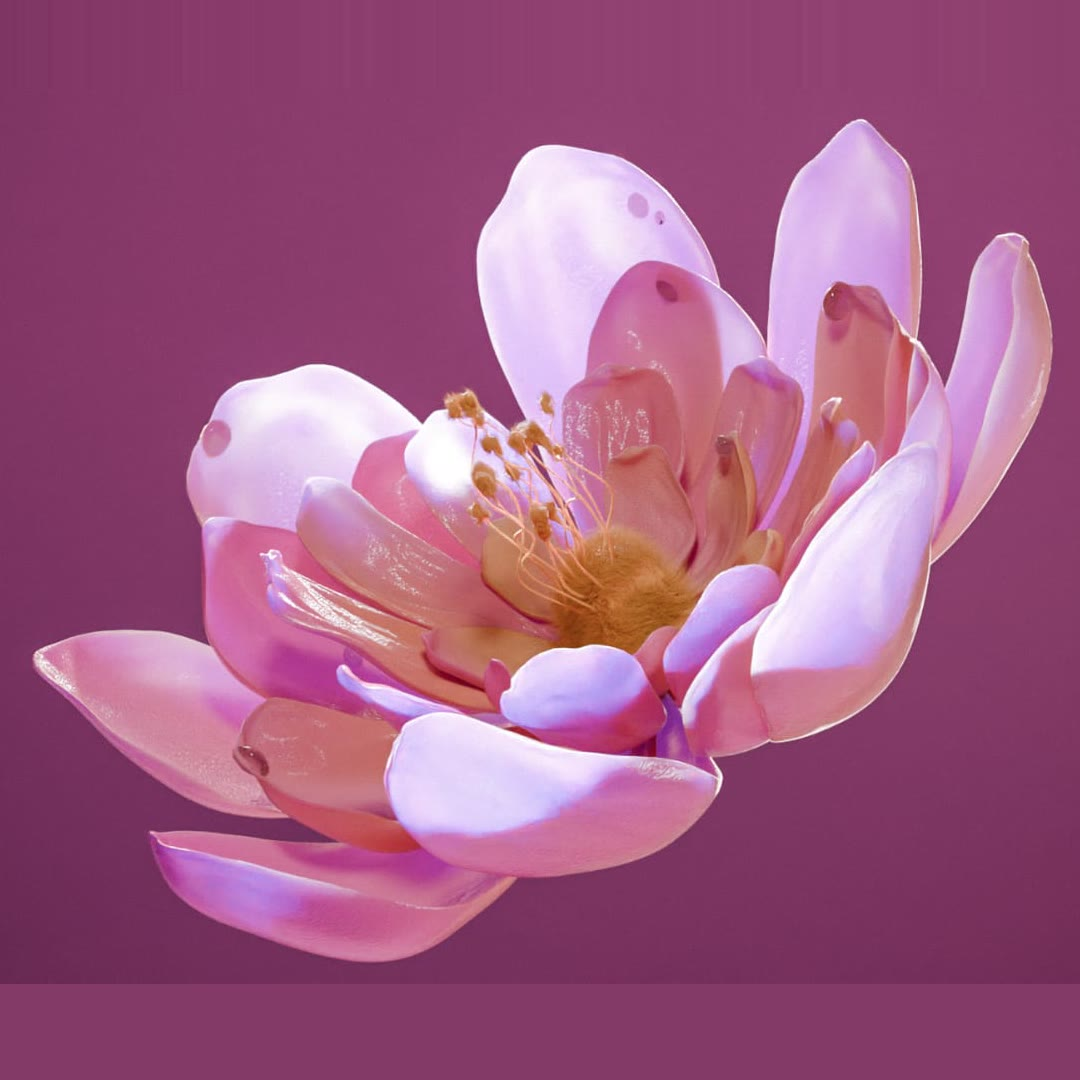
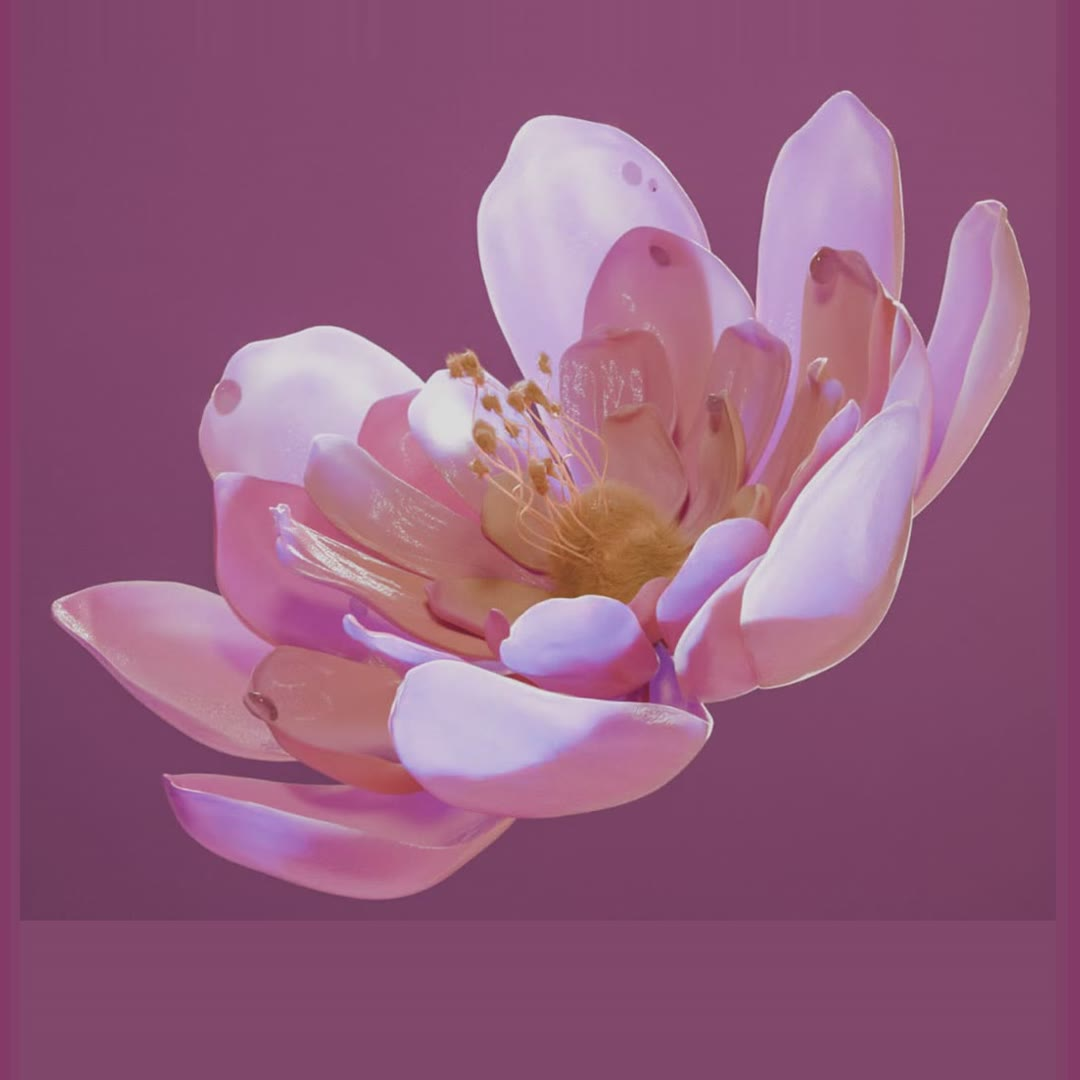
Align pink render centre/scale to the clay & wireframe stages
Overlay comparison confirmed the pink render shares the same orientation
(not mirrored), so nudge it to match: shrink ~2% and shift up ~22px so its
flower centre coincides with the clay/wireframe centre, magenta-fill the
exposed edge. Bump cache-bust to v4. The remaining sub-pixel divergence is
the pink render's slightly different camera perspective, which a 2D edit
can't change.

diff --git a/index.html b/index.html
@@ -41,9 +41,9 @@
     <div class="hero-track" id="heroTrack">
       <div class="hero-sticky">
         <div class="hero-bg" aria-hidden="true">
-          <div class="hero-layer" style="background-image:url('images/hero.jpeg?v=3')"></div>
-          <div class="hero-layer" style="background-image:url('images/flower-grey.jpeg?v=3')"></div>
-          <div class="hero-layer" style="background-image:url('images/flower-pink.jpeg?v=3')"></div>
+          <div class="hero-layer" style="background-image:url('images/hero.jpeg?v=4')"></div>
+          <div class="hero-layer" style="background-image:url('images/flower-grey.jpeg?v=4')"></div>
+          <div class="hero-layer" style="background-image:url('images/flower-pink.jpeg?v=4')"></div>
         </div>
         <div class="container hero-inner">
           <p class="hero-eyebrow">👋 Hi, my name is</p>
